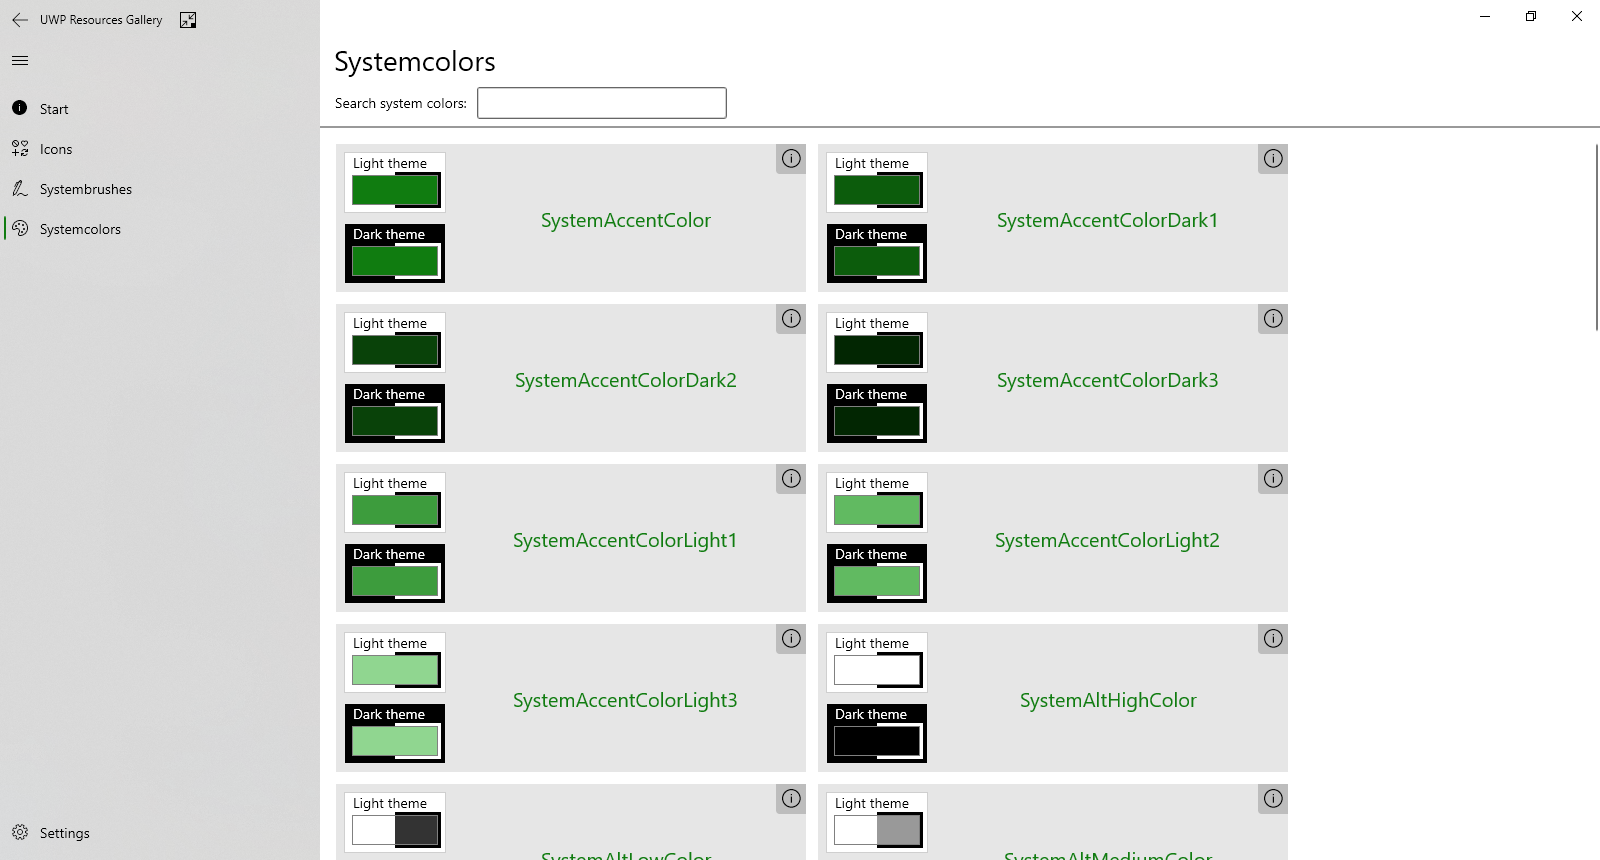
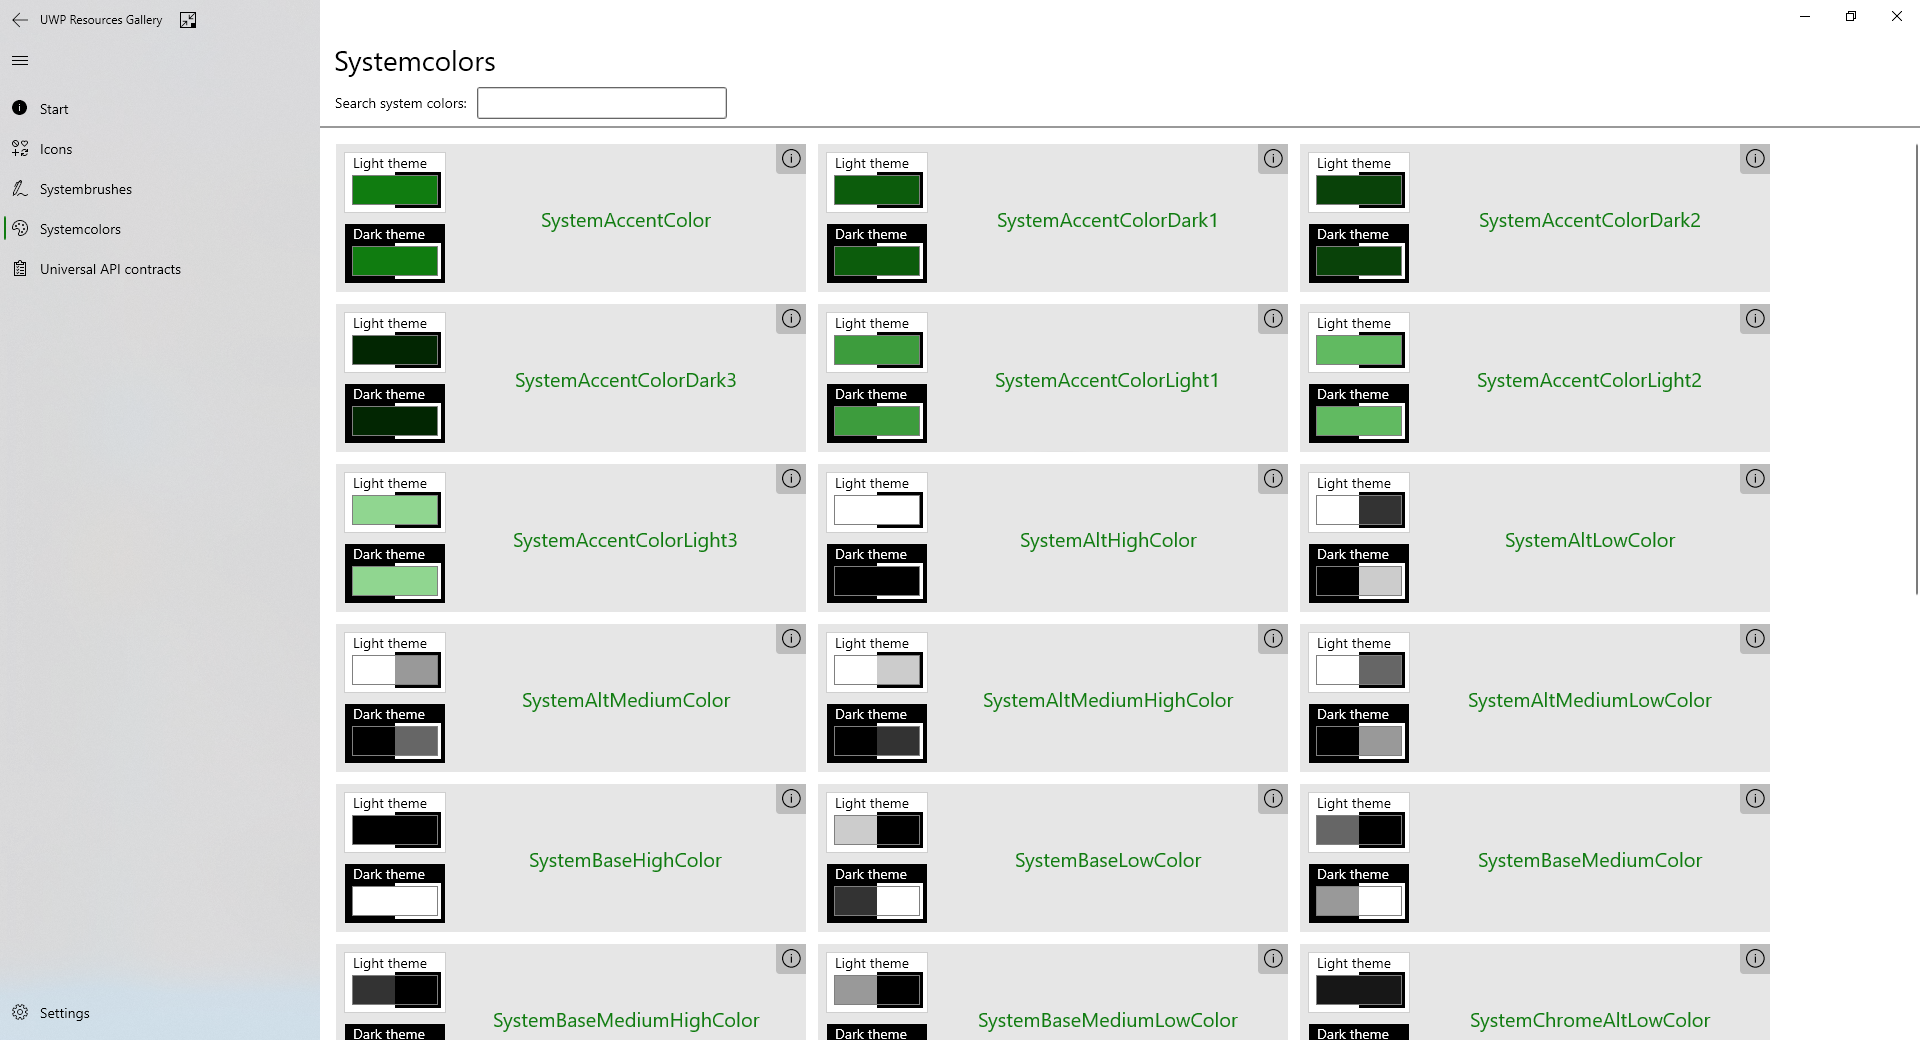
Update documentation

diff --git a/README.md b/README.md
@@ -8,19 +8,11 @@ You can download the UWP Resources Gallery now [from the Microsoft Store](https:
 
 The idea for this app is based on the XAML Controls Gallery. The XAML Controls Gallery can be found here: https://github.com/microsoft/Xaml-Controls-Gallery
 
-### Iconspage
-![Iconspage of UWP Resources Gallery](./docs/Screenshot_Iconspage.png)
-
-### Systembrushes page
-![Systembrushes of UWP Resources Gallery](./docs/Screenshot_Systembrushespage.png)
-
-### Systemcolors page
-![Systemcolors of UWP Resources Gallery](./docs/Screenshot_Systemcolorspage.png)
-
 ## The UWP Resources Gallery shows:
  * All Segoe MDL2 icons that are provided by Windows 10
  * How to use Segoe MDL2 icons
  * System colors and brushes that are available to UWP apps
+ * List of Windows 10 versions and all available Universal API contracts available
 
 ## Building the app
 **Note**: The UWP Resources Gallery requires Visual Studio [2017](http://go.microsoft.com/fwlink/?LinkID=532422) or [2019](https://visualstudio.microsoft.com/vs/) to build and Windows 10 to execute.
@@ -28,6 +20,20 @@ The idea for this app is based on the XAML Controls Gallery. The XAML Controls G
 To obtain information about Windows 10 development, go to the [Windows Dev Center](https://developer.microsoft.com/windows)
 
 To obtain information about Microsoft Visual Studio and the tools for developing Windows apps, go to [Visual Studio](http://go.microsoft.com/fwlink/?LinkID=532422)
+
+## Screenshots
+
+### Iconspage
+<img alt="Iconspage of UWP Resources Gallery" src="./docs/Screenshot_Iconspage.png" height="200">
+
+### Systembrushes page
+<img alt="Systembrushes of UWP Resources Gallery" src="./docs/Screenshot_Systembrushespage.png" height="200">
+
+### Systemcolors page
+<img alt="Systemcolors of UWP Resources Gallery" src="./docs/Screenshot_Systemcolorspage.png" height="200">
+
+### Universal API Contracts page
+<img alt="Universal API contracts page of UWP Resources Gallery" src="./docs/Screenshot_UniversalAPIContractsPage.png" height="200">
 
 ## References:
 
